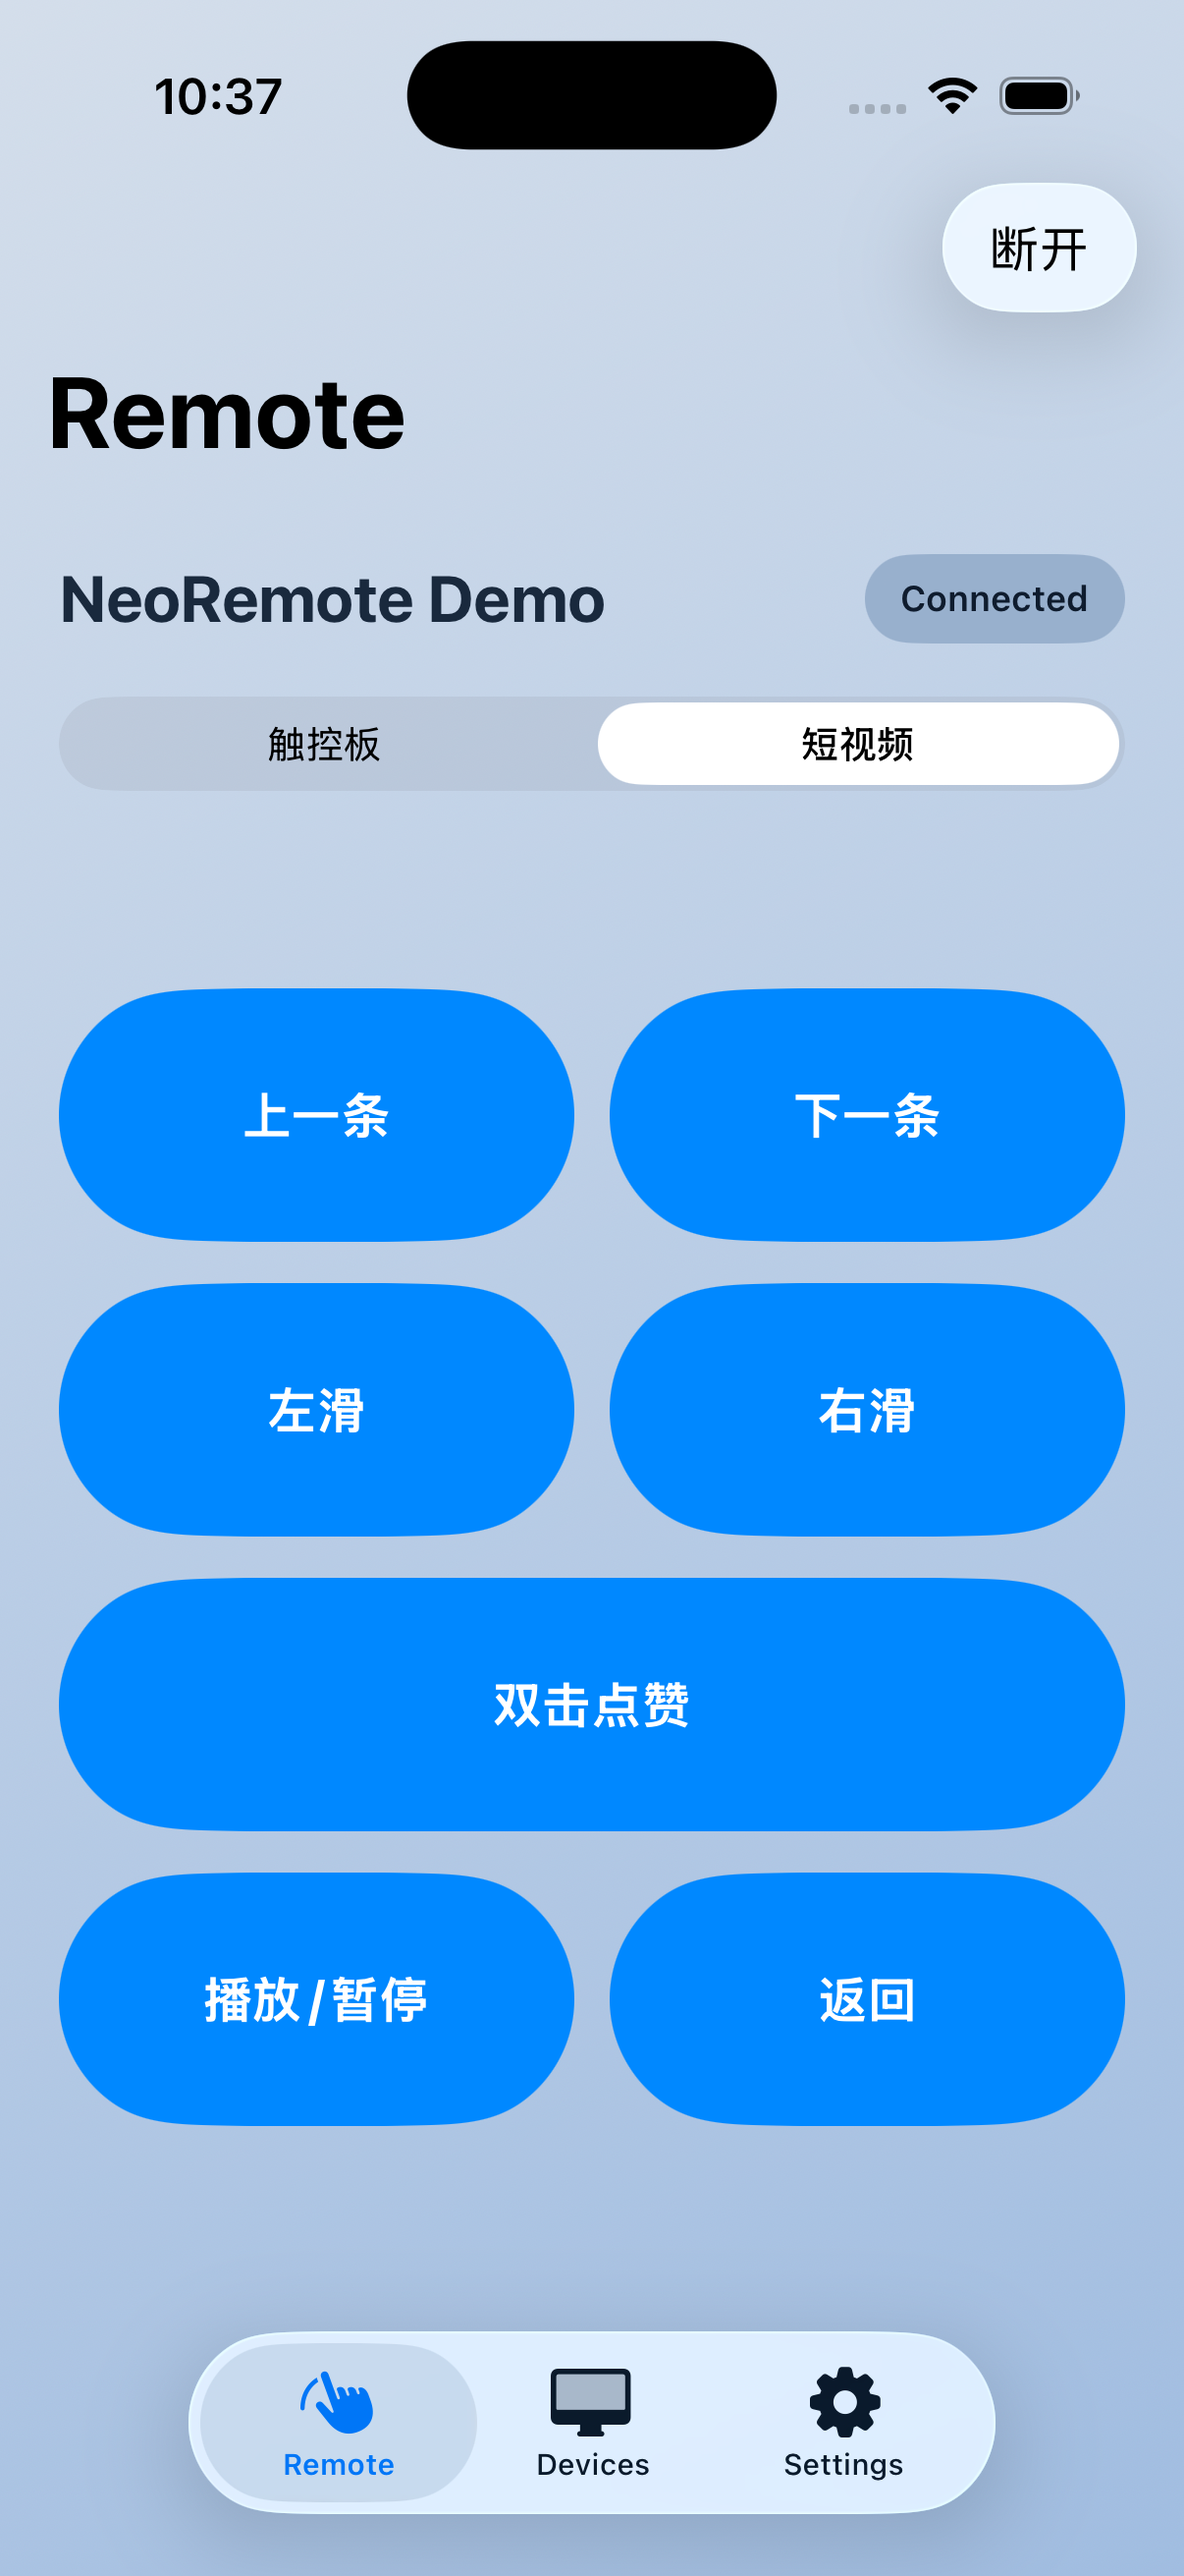
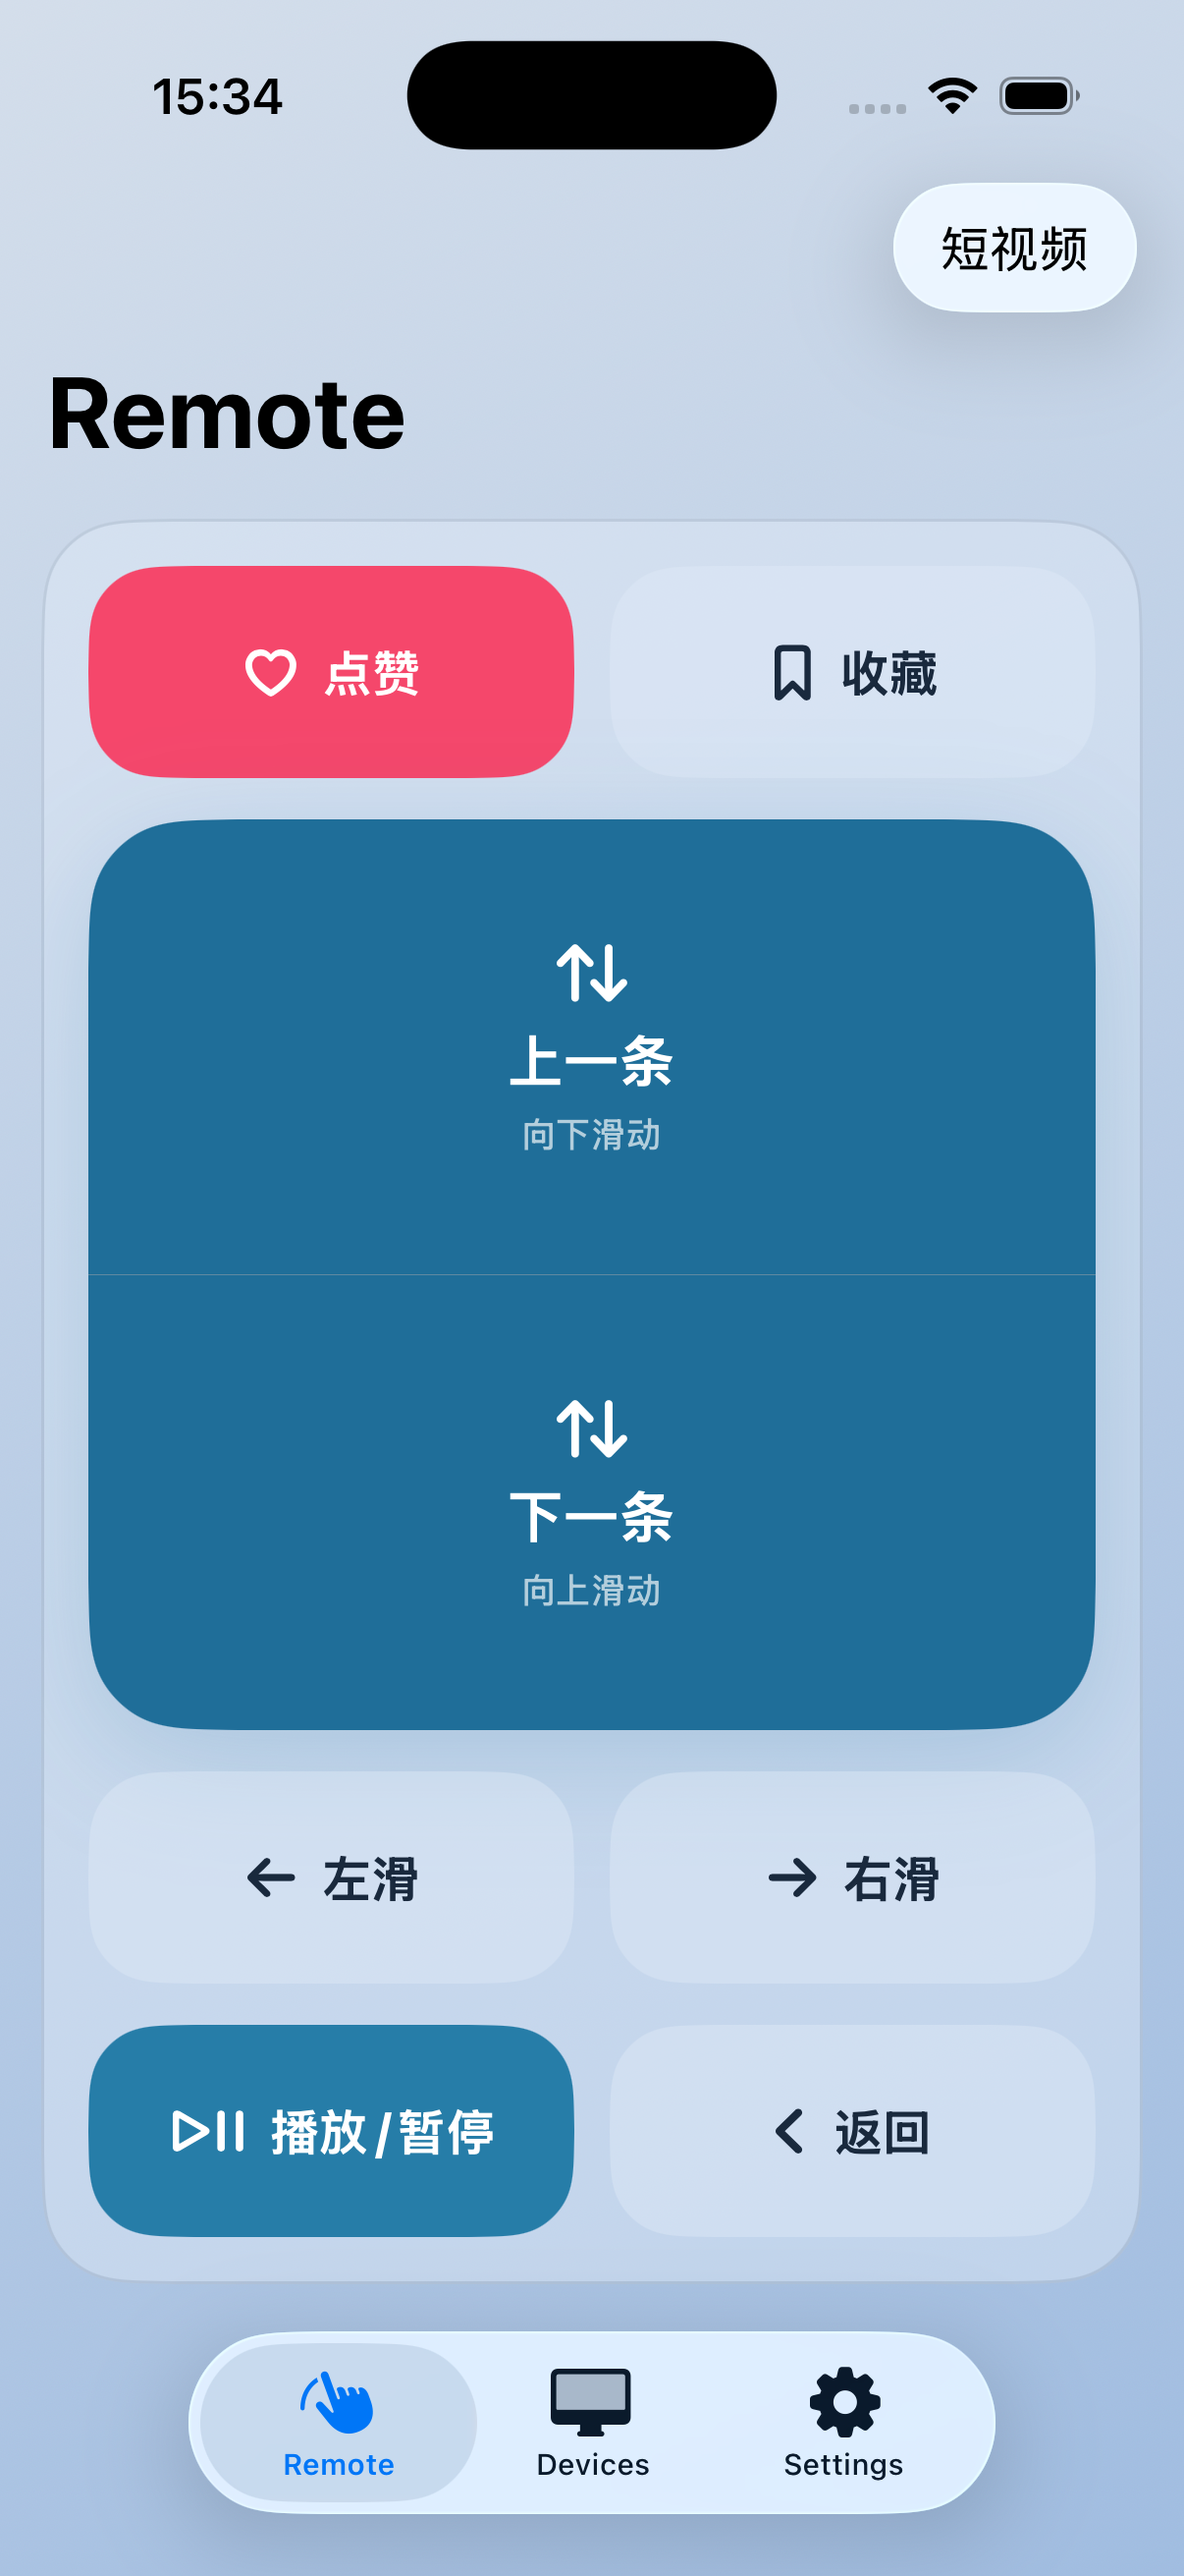
feat: polish mobile control modes and docs

diff --git a/Android/app/src/main/java/com/neoremote/android/ui/screens/ConnectedScreens.kt b/Android/app/src/main/java/com/neoremote/android/ui/screens/ConnectedScreens.kt
@@ -100,6 +100,7 @@ fun ConnectedShell(
     onCursorSensitivityChange: (Double) -> Unit,
     onSwipeSensitivityChange: (Double) -> Unit,
     onControlModeChange: (ControlMode) -> Unit,
+    onDefaultControlModeChange: (ControlMode) -> Unit,
     onTouchOutput: (TouchSurfaceOutput) -> Unit,
     onScreenGesture: (ScreenGestureKind, Double, Double, Double, Double, Long) -> Unit,
     onSystemAction: (SystemAction) -> Unit,
@@ -162,7 +163,7 @@ fun ConnectedShell(
                         onHapticsEnabledChange = onHapticsEnabledChange,
                         onCursorSensitivityChange = onCursorSensitivityChange,
                         onSwipeSensitivityChange = onSwipeSensitivityChange,
-                        onControlModeChange = onControlModeChange,
+                        onDefaultControlModeChange = onDefaultControlModeChange,
                         bottomPadding = bottomInsetPadding,
                     )
                 }
@@ -450,7 +451,7 @@ private fun ShortVideoControlPanel(
                 onVideoAction = onVideoAction,
                 modifier = Modifier.weight(1f),
                 accent = ShortVideoAccent.PRIMARY,
-                icon = { Icon(Icons.Outlined.PlayArrow, contentDescription = null) },
+                icon = { PlayPauseIcon() },
             )
             ShortVideoActionButton(
                 label = "返回",
@@ -467,6 +468,25 @@ private enum class ShortVideoAccent {
     NORMAL,
     PRIMARY,
     LIKE,
+}
+
+@Composable
+private fun PlayPauseIcon() {
+    Row(
+        horizontalArrangement = Arrangement.spacedBy(0.dp),
+        verticalAlignment = Alignment.CenterVertically,
+    ) {
+        Icon(
+            Icons.Outlined.PlayArrow,
+            contentDescription = null,
+            modifier = Modifier.size(24.dp),
+        )
+        Icon(
+            Icons.Outlined.Pause,
+            contentDescription = null,
+            modifier = Modifier.size(24.dp),
+        )
+    }
 }
 
 @Composable
@@ -619,7 +639,7 @@ private fun SettingsScreen(
     onHapticsEnabledChange: (Boolean) -> Unit,
     onCursorSensitivityChange: (Double) -> Unit,
     onSwipeSensitivityChange: (Double) -> Unit,
-    onControlModeChange: (ControlMode) -> Unit,
+    onDefaultControlModeChange: (ControlMode) -> Unit,
     bottomPadding: PaddingValues,
 ) {
     LazyColumn(
@@ -637,18 +657,18 @@ private fun SettingsScreen(
                 Row(horizontalArrangement = Arrangement.spacedBy(12.dp)) {
                     ControlModeButton(
                         label = "屏幕控制",
-                        selected = state.controlMode == ControlMode.SCREEN_CONTROL,
-                        onClick = { onControlModeChange(ControlMode.SCREEN_CONTROL) },
+                        selected = state.defaultControlMode == ControlMode.SCREEN_CONTROL,
+                        onClick = { onDefaultControlModeChange(ControlMode.SCREEN_CONTROL) },
                         modifier = Modifier.weight(1f),
                     )
                     ControlModeButton(
                         label = "短视频",
-                        selected = state.controlMode == ControlMode.SHORT_VIDEO,
-                        onClick = { onControlModeChange(ControlMode.SHORT_VIDEO) },
+                        selected = state.defaultControlMode == ControlMode.SHORT_VIDEO,
+                        onClick = { onDefaultControlModeChange(ControlMode.SHORT_VIDEO) },
                         modifier = Modifier.weight(1f),
                     )
                 }
-                SettingRow(label = "启动后进入", value = state.controlMode.displayName)
+                SettingRow(label = "启动后进入", value = state.defaultControlMode.displayName)
             }
         }
         item {

diff --git a/Android/app/src/test/java/com/neoremote/android/session/SessionCoordinatorViewModelTest.kt b/Android/app/src/test/java/com/neoremote/android/session/SessionCoordinatorViewModelTest.kt
@@ -3,6 +3,7 @@ package com.neoremote.android.session
 import androidx.arch.core.executor.testing.InstantTaskExecutorRule
 import com.google.common.truth.Truth.assertThat
 import com.neoremote.android.core.discovery.FakeDiscoveryService
+import com.neoremote.android.core.model.ControlMode
 import com.neoremote.android.core.model.DesktopEndpoint
 import com.neoremote.android.core.model.DesktopPlatform
 import com.neoremote.android.core.model.EndpointSource
@@ -255,6 +256,26 @@ class SessionCoordinatorViewModelTest {
         assertThat(registry.loadTouchSensitivitySettings()).isEqualTo(
             TouchSensitivitySettings(cursorSensitivity = 1.8, swipeSensitivity = 0.7),
         )
+    }
+
+    @Test
+    fun `temporary control mode change does not update default control mode`() = runTest(dispatcher) {
+        viewModel.setControlMode(ControlMode.SHORT_VIDEO)
+        runCurrent()
+
+        assertThat(viewModel.uiState.value.controlMode).isEqualTo(ControlMode.SHORT_VIDEO)
+        assertThat(viewModel.uiState.value.defaultControlMode).isEqualTo(ControlMode.SCREEN_CONTROL)
+        assertThat(registry.loadControlMode()).isEqualTo(ControlMode.SCREEN_CONTROL)
+    }
+
+    @Test
+    fun `default control mode change persists without changing current mode`() = runTest(dispatcher) {
+        viewModel.setDefaultControlMode(ControlMode.SHORT_VIDEO)
+        runCurrent()
+
+        assertThat(viewModel.uiState.value.controlMode).isEqualTo(ControlMode.SCREEN_CONTROL)
+        assertThat(viewModel.uiState.value.defaultControlMode).isEqualTo(ControlMode.SHORT_VIDEO)
+        assertThat(registry.loadControlMode()).isEqualTo(ControlMode.SHORT_VIDEO)
     }
 
     @Test

diff --git a/Android/app/src/main/java/com/neoremote/android/core/session/SessionCoordinatorViewModel.kt b/Android/app/src/main/java/com/neoremote/android/core/session/SessionCoordinatorViewModel.kt
@@ -48,13 +48,15 @@ class SessionCoordinatorViewModel(
     mainDispatcher: CoroutineDispatcher = Dispatchers.Main.immediate,
     private val isSelfEndpoint: (DesktopEndpoint) -> Boolean = ::isSelfAndroidReceiverEndpoint,
 ) : ViewModel() {
+    private val initialControlMode = registry.loadControlMode()
     private val _uiState = MutableStateFlow(
         SessionUiState(
             recentDevices = registry.loadRecentDevices().filterNot(isSelfEndpoint),
             lastConnectedEndpoint = registry.loadLastConnectedDevice()?.takeUnless(isSelfEndpoint),
             manualConnectDraft = registry.loadManualDraft(),
             hapticsEnabled = registry.loadHapticsEnabled(),
-            controlMode = registry.loadControlMode(),
+            controlMode = initialControlMode,
+            defaultControlMode = initialControlMode,
             touchSensitivitySettings = registry.loadTouchSensitivitySettings(),
         ),
     )
@@ -227,8 +229,12 @@ class SessionCoordinatorViewModel(
     }
 
     fun setControlMode(mode: ControlMode) {
-        registry.saveControlMode(mode)
         _uiState.update { it.copy(controlMode = mode) }
+    }
+
+    fun setDefaultControlMode(mode: ControlMode) {
+        registry.saveControlMode(mode)
+        _uiState.update { it.copy(defaultControlMode = mode) }
     }
 
     fun enterDemoMode() {

diff --git a/iOS/NeoRemoteTests/SessionCoordinatorTests.swift b/iOS/NeoRemoteTests/SessionCoordinatorTests.swift
@@ -184,6 +184,34 @@ final class SessionCoordinatorTests: XCTestCase {
         XCTAssertFalse(transport.sentPayloads.isEmpty)
     }
 
+    func testTemporaryControlModeDoesNotUpdateDefaultControlMode() {
+        let coordinator = SessionCoordinator(
+            registry: registry,
+            discoveryService: MockDiscoveryService(),
+            transportFactory: { MockRemoteTransport() }
+        )
+
+        coordinator.setControlMode(.shortVideo)
+
+        XCTAssertEqual(coordinator.controlMode, .shortVideo)
+        XCTAssertEqual(coordinator.defaultControlMode, .screenControl)
+        XCTAssertEqual(registry.loadControlMode(), .screenControl)
+    }
+
+    func testDefaultControlModePersistsWithoutChangingCurrentMode() {
+        let coordinator = SessionCoordinator(
+            registry: registry,
+            discoveryService: MockDiscoveryService(),
+            transportFactory: { MockRemoteTransport() }
+        )
+
+        coordinator.setDefaultControlMode(.shortVideo)
+
+        XCTAssertEqual(coordinator.controlMode, .screenControl)
+        XCTAssertEqual(coordinator.defaultControlMode, .shortVideo)
+        XCTAssertEqual(registry.loadControlMode(), .shortVideo)
+    }
+
     private func settleAsyncUpdates() async {
         await Task.yield()
         await Task.yield()

diff --git a/iOS/NeoRemote/Core/SessionCoordinator.swift b/iOS/NeoRemote/Core/SessionCoordinator.swift
@@ -27,6 +27,7 @@ final class SessionCoordinator: ObservableObject {
     @Published var errorMessage: String?
     @Published var isHapticsEnabled: Bool
     @Published var controlMode: ControlMode
+    @Published var defaultControlMode: ControlMode
     @Published var touchSensitivitySettings: TouchSensitivitySettings
     @Published var statusMessage: String = "等待连接桌面端"
     @Published var manualConnectDraft = ManualConnectDraft()
@@ -44,7 +45,9 @@ final class SessionCoordinator: ObservableObject {
         self.codec = codec
         self.haptics = haptics
         self.isHapticsEnabled = registry.loadHapticsEnabled()
-        self.controlMode = registry.loadControlMode()
+        let initialControlMode = registry.loadControlMode()
+        self.controlMode = initialControlMode
+        self.defaultControlMode = initialControlMode
         self.touchSensitivitySettings = registry.loadTouchSensitivitySettings()
 
         self.haptics.isEnabled = self.isHapticsEnabled
@@ -191,6 +194,10 @@ final class SessionCoordinator: ObservableObject {
 
     func setControlMode(_ mode: ControlMode) {
         controlMode = mode
+    }
+
+    func setDefaultControlMode(_ mode: ControlMode) {
+        defaultControlMode = mode
         registry.saveControlMode(mode)
     }
 

diff --git a/Android/app/src/main/java/com/neoremote/android/ui/NeoRemoteApp.kt b/Android/app/src/main/java/com/neoremote/android/ui/NeoRemoteApp.kt
@@ -33,6 +33,7 @@ fun NeoRemoteApp(
     onCursorSensitivityChange: (Double) -> Unit = {},
     onSwipeSensitivityChange: (Double) -> Unit = {},
     onControlModeChange: (ControlMode) -> Unit,
+    onDefaultControlModeChange: (ControlMode) -> Unit,
     onTouchOutput: (TouchSurfaceOutput) -> Unit,
     onScreenGesture: (ScreenGestureKind, Double, Double, Double, Double, Long) -> Unit,
     onSystemAction: (SystemAction) -> Unit,
@@ -64,6 +65,7 @@ fun NeoRemoteApp(
             onCursorSensitivityChange = onCursorSensitivityChange,
             onSwipeSensitivityChange = onSwipeSensitivityChange,
             onControlModeChange = onControlModeChange,
+            onDefaultControlModeChange = onDefaultControlModeChange,
             onTouchOutput = { output ->
                 if (state.hapticsEnabled) {
                     haptics.perform(output.semanticEvent)

diff --git a/Android/app/src/main/java/com/neoremote/android/MainActivity.kt b/Android/app/src/main/java/com/neoremote/android/MainActivity.kt
@@ -51,6 +51,7 @@ class MainActivity : ComponentActivity() {
                     onCursorSensitivityChange = viewModel::setCursorSensitivity,
                     onSwipeSensitivityChange = viewModel::setSwipeSensitivity,
                     onControlModeChange = viewModel::setControlMode,
+                    onDefaultControlModeChange = viewModel::setDefaultControlMode,
                     onTouchOutput = viewModel::handleTouchOutput,
                     onScreenGesture = viewModel::sendScreenGesture,
                     onSystemAction = viewModel::sendSystemAction,

diff --git a/iOS/NeoRemote/Features/Settings/SettingsView.swift b/iOS/NeoRemote/Features/Settings/SettingsView.swift
@@ -11,8 +11,8 @@ struct SettingsView: View {
                     Picker(
                         "启动后进入",
                         selection: Binding(
-                            get: { coordinator.controlMode },
-                            set: { coordinator.setControlMode($0) }
+                            get: { coordinator.defaultControlMode },
+                            set: { coordinator.setDefaultControlMode($0) }
                         )
                     ) {
                         ForEach(ControlMode.allCases) { mode in

diff --git a/Android/app/src/main/java/com/neoremote/android/core/model/Models.kt b/Android/app/src/main/java/com/neoremote/android/core/model/Models.kt
@@ -197,6 +197,7 @@ data class SessionUiState(
     val lastConnectedEndpoint: DesktopEndpoint? = null,
     val lastHudMessage: String? = null,
     val controlMode: ControlMode = ControlMode.SCREEN_CONTROL,
+    val defaultControlMode: ControlMode = ControlMode.SCREEN_CONTROL,
     val hapticsEnabled: Boolean = true,
     val touchSensitivitySettings: TouchSensitivitySettings = TouchSensitivitySettings(),
     val errorMessage: String? = null,
